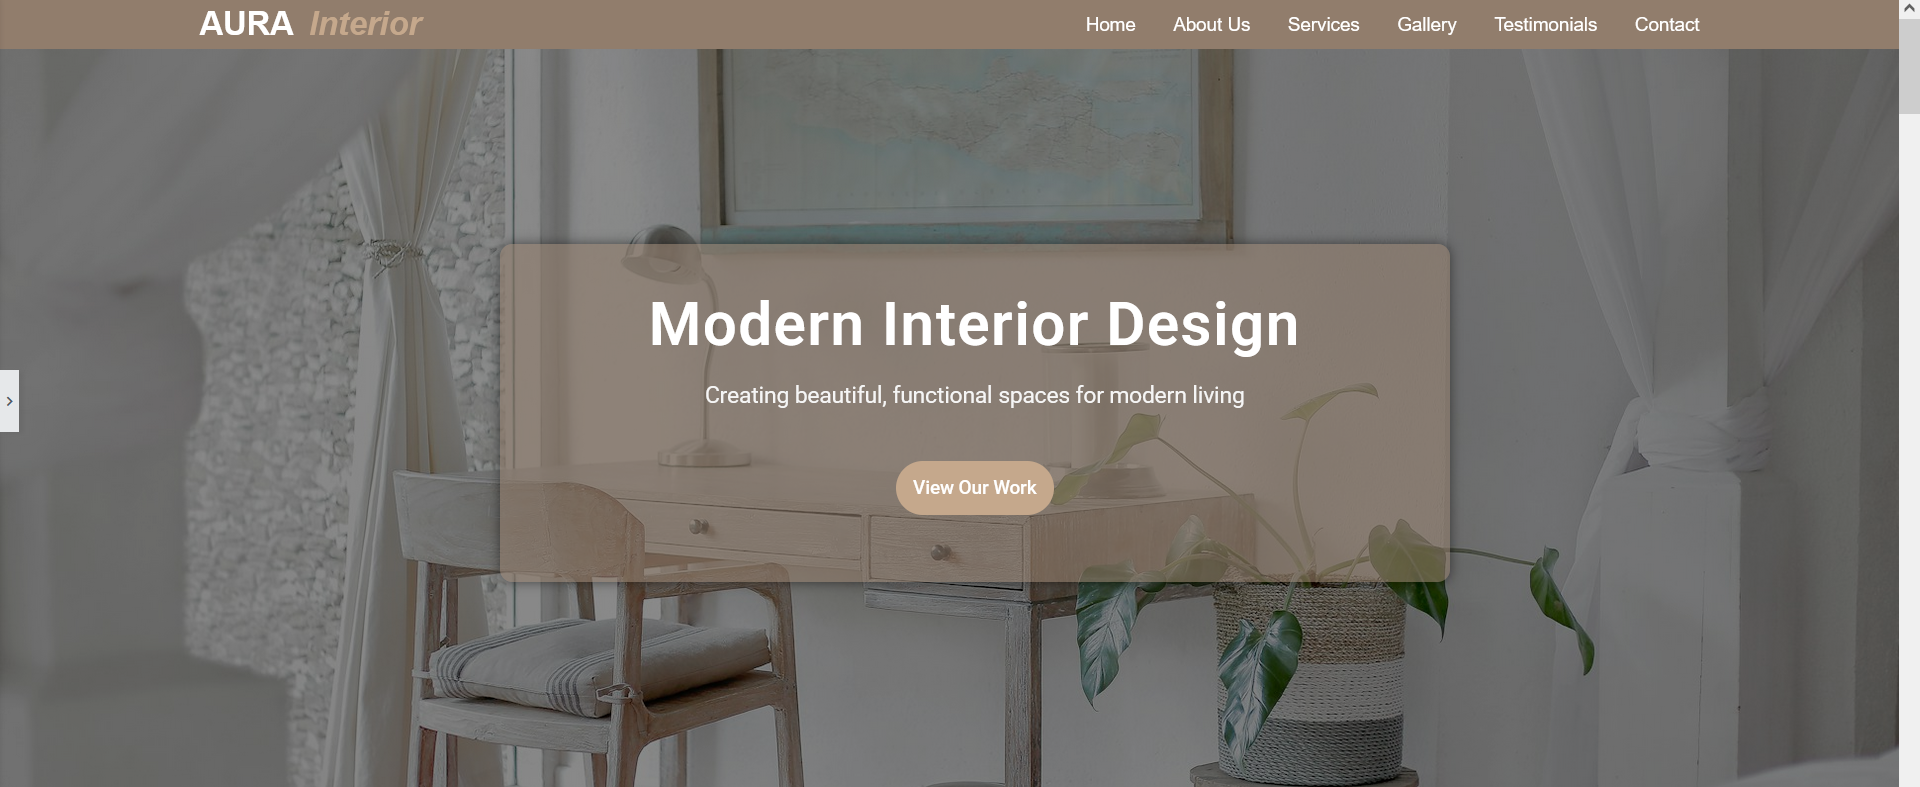
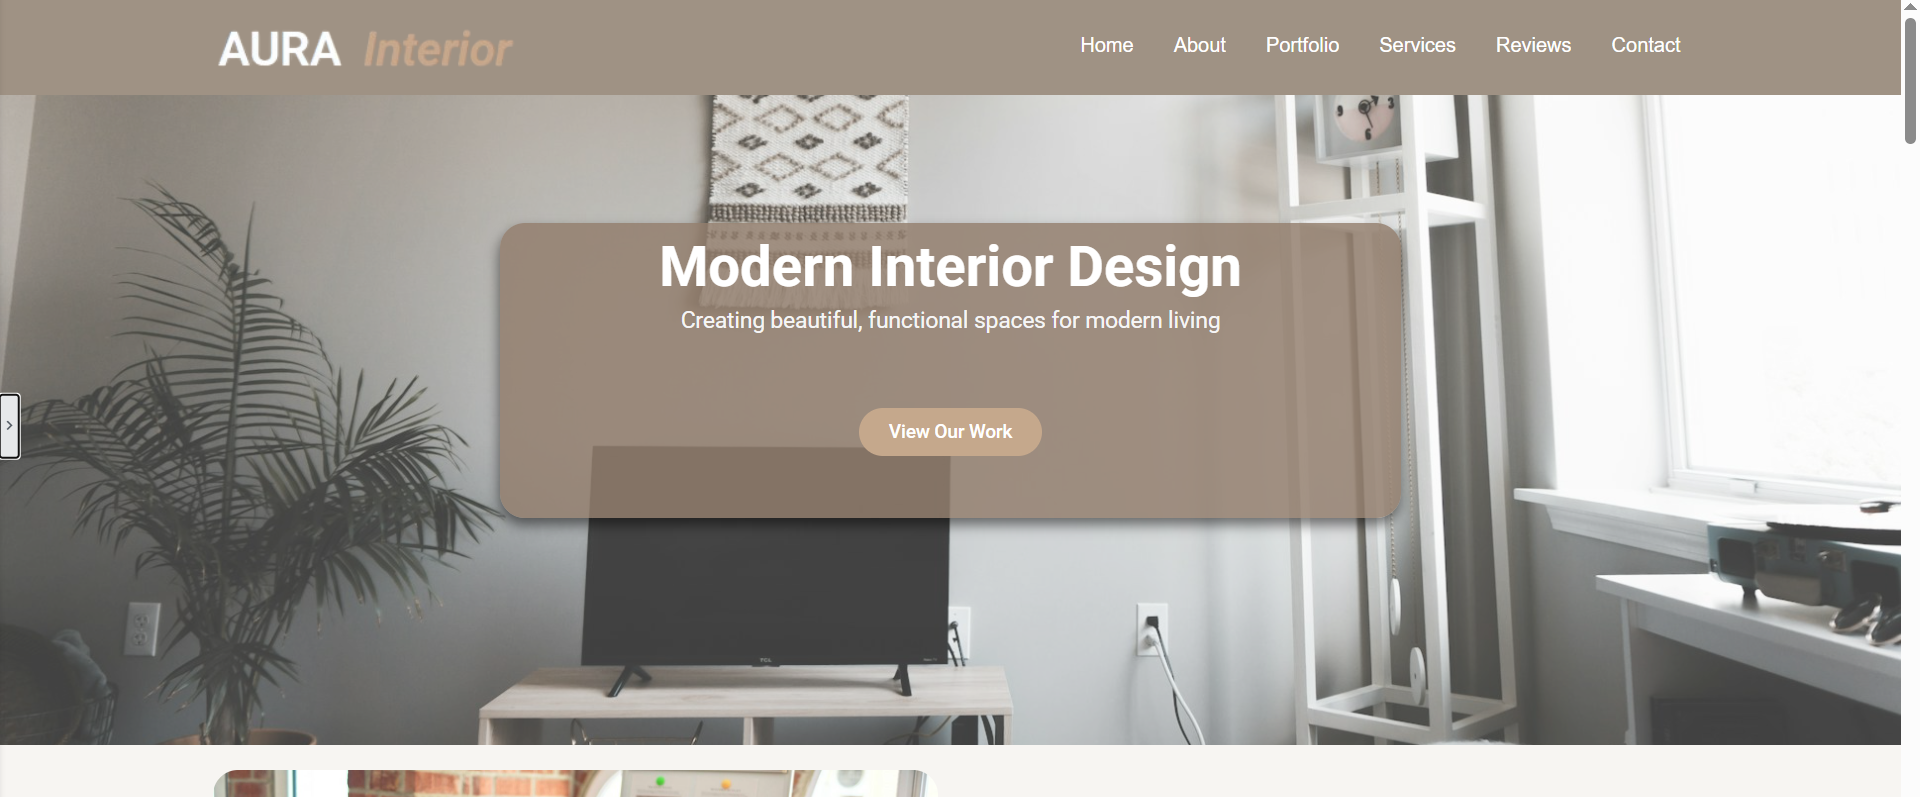
Updated portfolio

diff --git a/index.html b/index.html
@@ -71,7 +71,7 @@
 
     <!-- page header -->
     <header id="home" class="header">
-        <div class="overlay"></div>
+        <!-- <div class="overlay"></div> -->
         <div class="header-content container">
             <h1 class="header-title">
                 <span class="up">HI!</span>
@@ -79,7 +79,7 @@
             </h1>
             <p class="header-subtitle">FUll STACK WEB DEVELOPER</p>
 
-             <a href="#portfolio" download class="btn-rounded btn btn-primary ml-2">Visit My Works</a>
+             <a href="#portfolio" >Visit My Works</a>
         </div>
     </header><!-- end of page header -->
 
